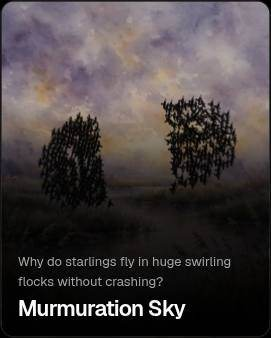
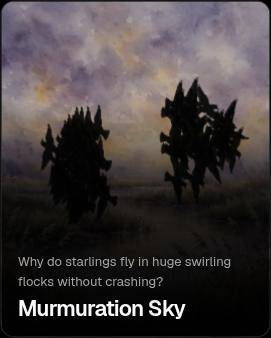
Record the flock card with wings that share a heading.

Changed region(s): [[0.5904, 0.2071, 0.9151, 0.5917], [0.1181, 0.2959, 0.4428, 0.6213]]

diff --git a/docs/progress/night-1.md b/docs/progress/night-1.md
@@ -145,6 +145,8 @@ A slow cannon shot's preview was a hop of about a tenth of a planet radius, and 
 
 Forty steps left three shelf cards before their law had appeared. On seed 11 the meadow is still at order 0.22 with 8 fireflies lit, the flock's headings agree only 0.24, and the valley is still a field of hares with a handful of lynx. Commit `3348f7c`. The meadow card now waits until step 1000, a shared flash: order 0.83 and 50 of 100 lit. The flock waits until step 400, when the headings agree 0.97. The valley waits until step 200, when the hares have crashed and the lynx outnumber them. The longer runs yield between chunks so the gallery can still paint. On the production gallery the meadow shows many fireflies bright at once, the valley shows both animals, and the flock has gathered in the sky. `pnpm check` is 243 tests.
 
+That gathered flock was still two black masses, because four hundred birds were drawn at about ten pixels. Commit `dd8caeb`. The card now draws 64 of them, large enough for the wings. On the production gallery the birds show a shared lean, wings out. The meadow still shows the shared flash. `pnpm check` is 243 tests.
+
 ## Still blocked on a key
 
 The playtester batch of 12 worlds, capped at $0.60 of Meta, was not run. There is no `MODEL_API_KEY` and no ledger in this checkout. A live `pnpm eval` would stop if the Baseten total reached $4.30. Painting new worlds stays capped at $1.00 of Meta, and was not started.
